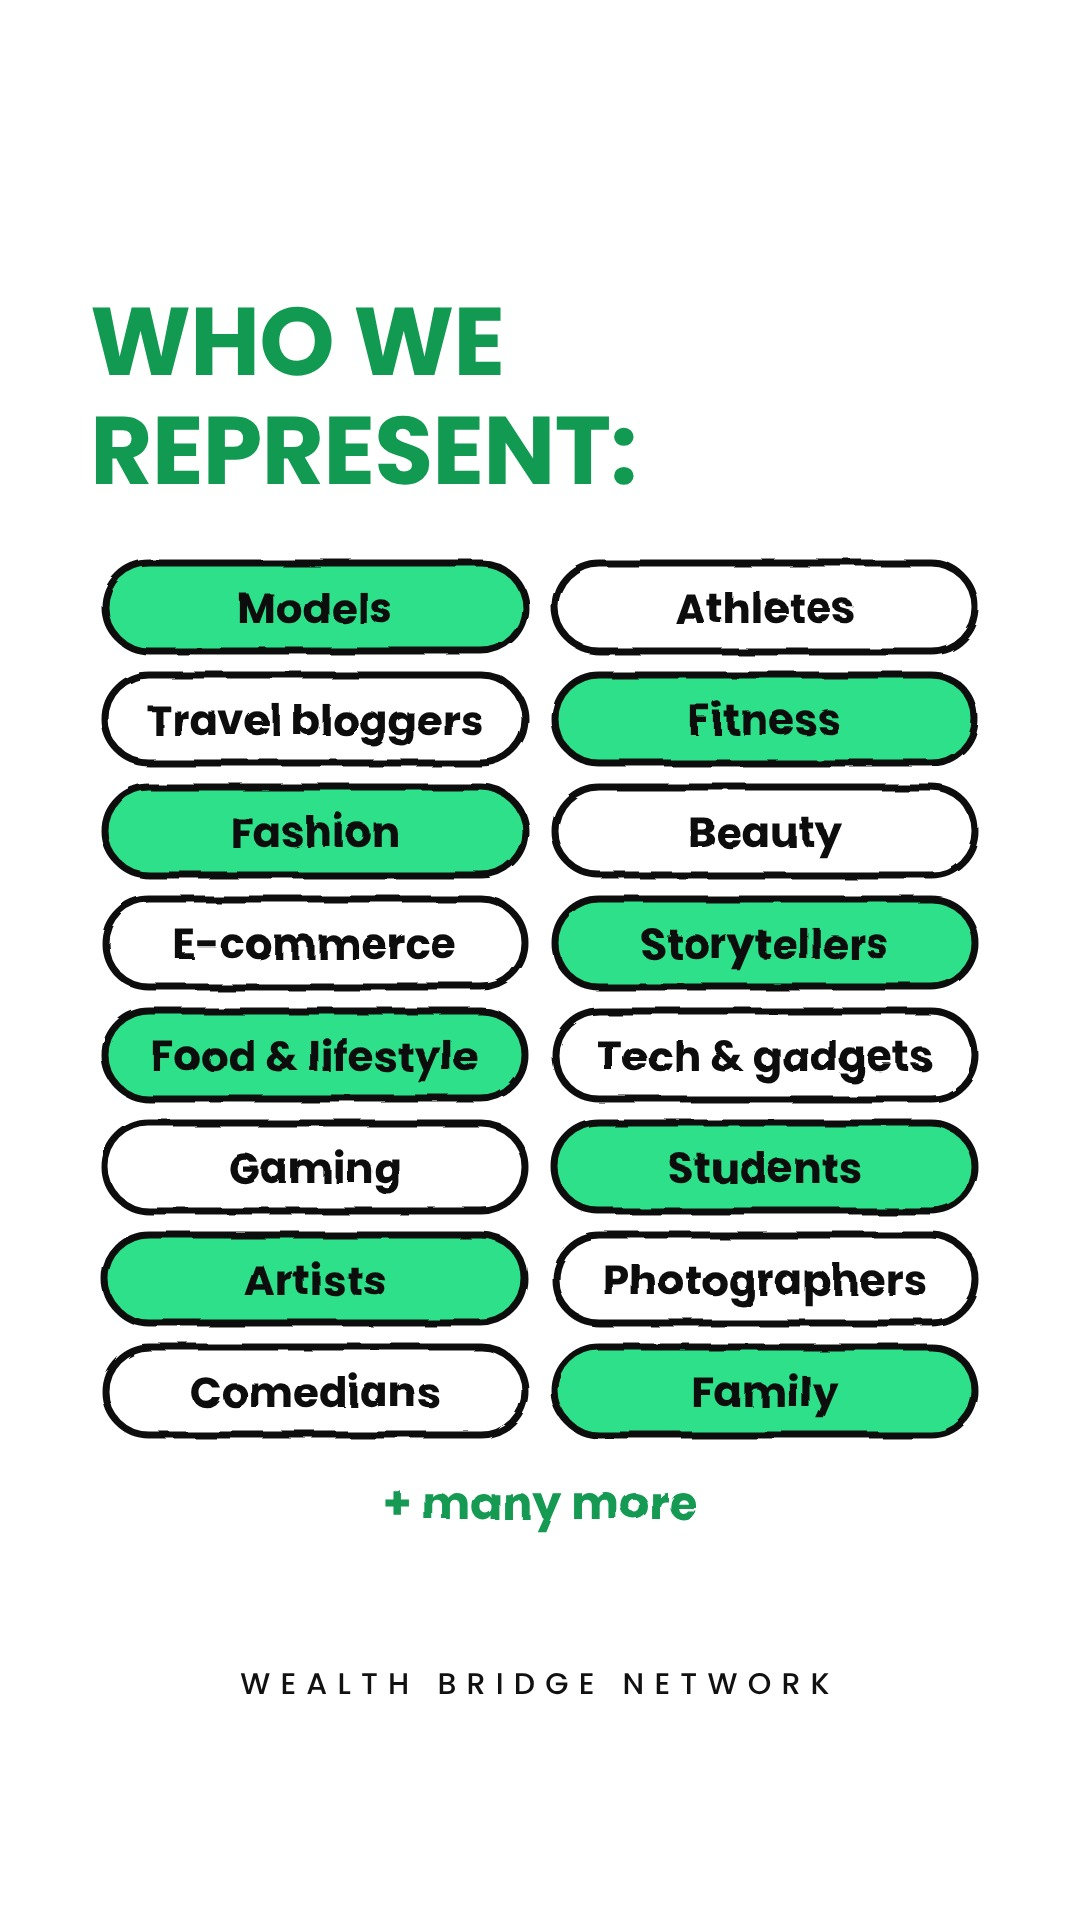
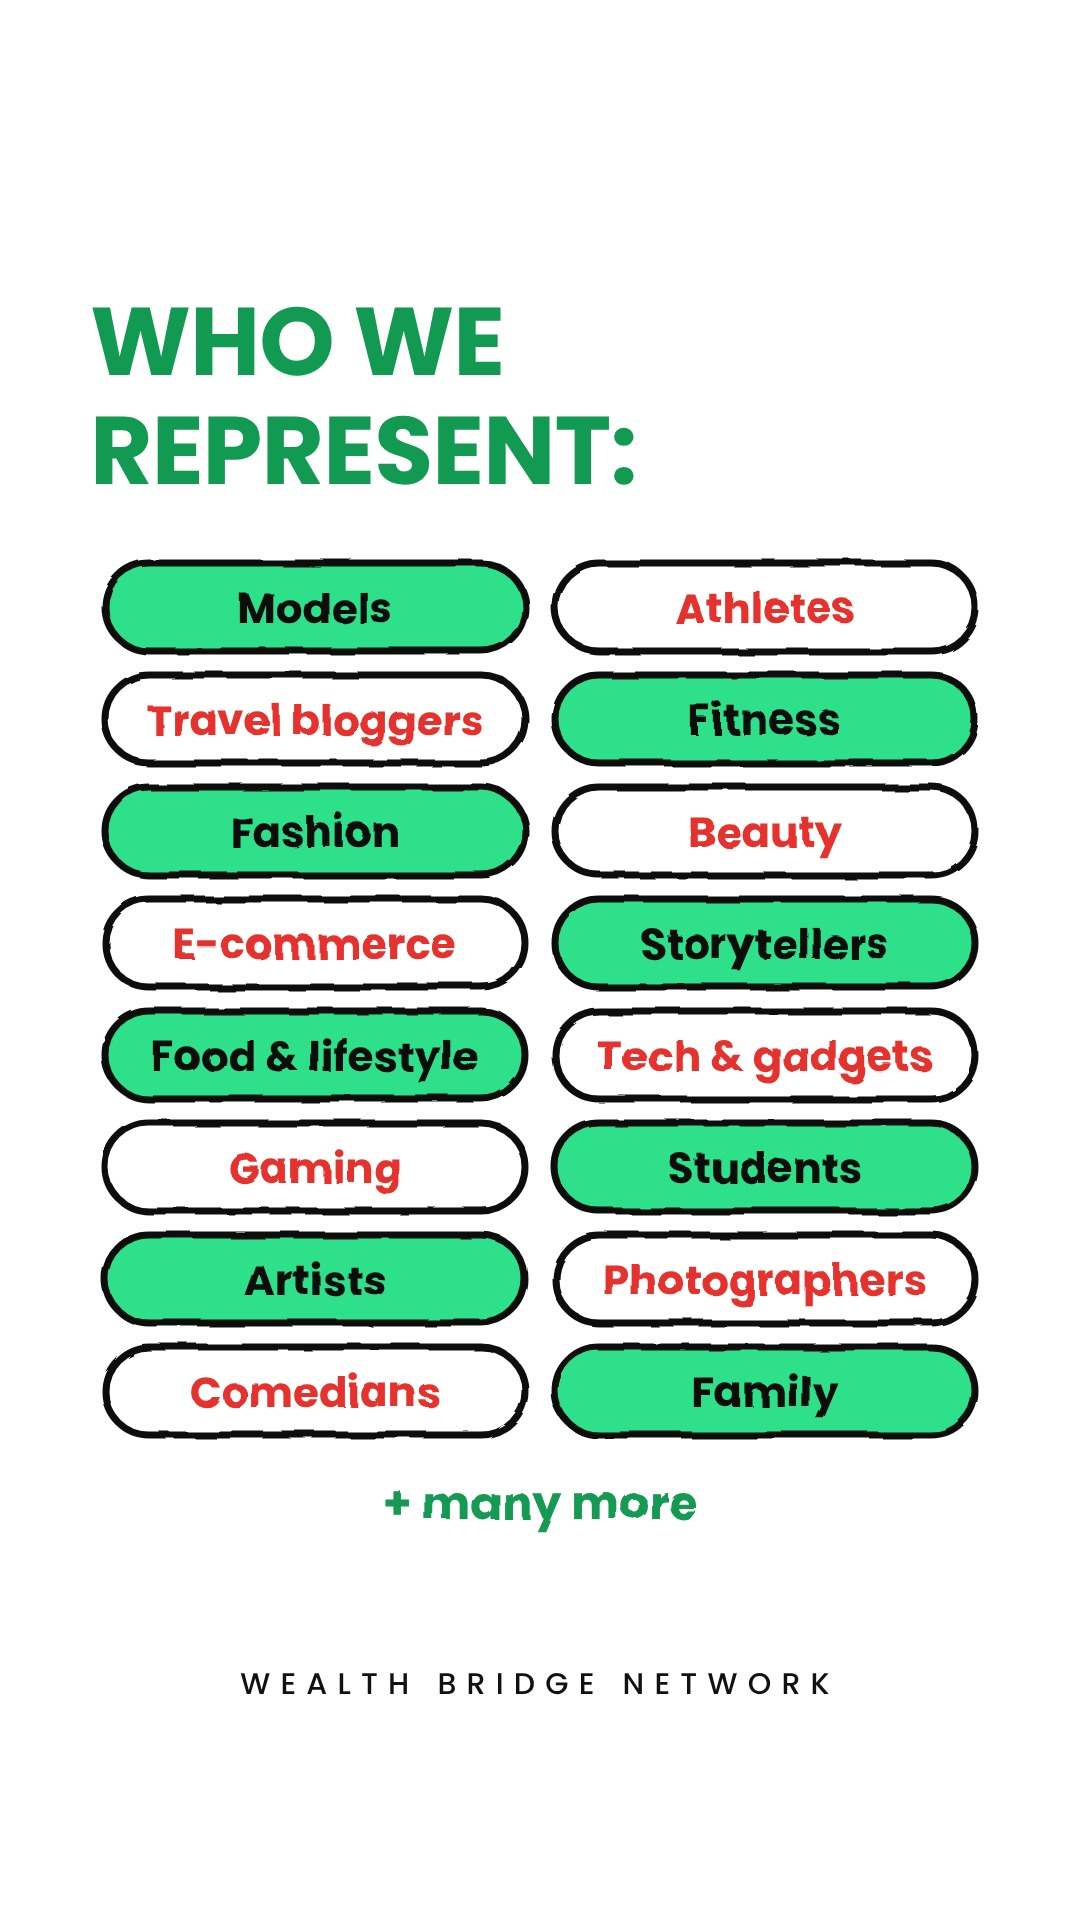
Highlights: red text on white category tags
Claude-Session: https://claude.ai/code/session_01XWHiAuJ5usg3NqhhkBZ2QK

diff --git a/content/highlights.py b/content/highlights.py
@@ -32,7 +32,7 @@ def pills(names, y0=0, row=112, cols=(225, 675), w=420):
         cx, y = cols[i % 2], y0 + (i // 2) * row
         fill = "#2FE08A" if (i // 2 + i % 2) % 2 == 0 else "#fff"
         b += f'<rect x="{cx-w/2}" y="{y}" width="{w}" height="88" rx="44" fill="{fill}" stroke="{INK}" stroke-width="7"/>'
-        b += _t(cx, y + 60, n, 42, 800)
+        b += _t(cx, y + 60, n, 42, 800, INK if fill != "#fff" else RED)
     return b
 
 
